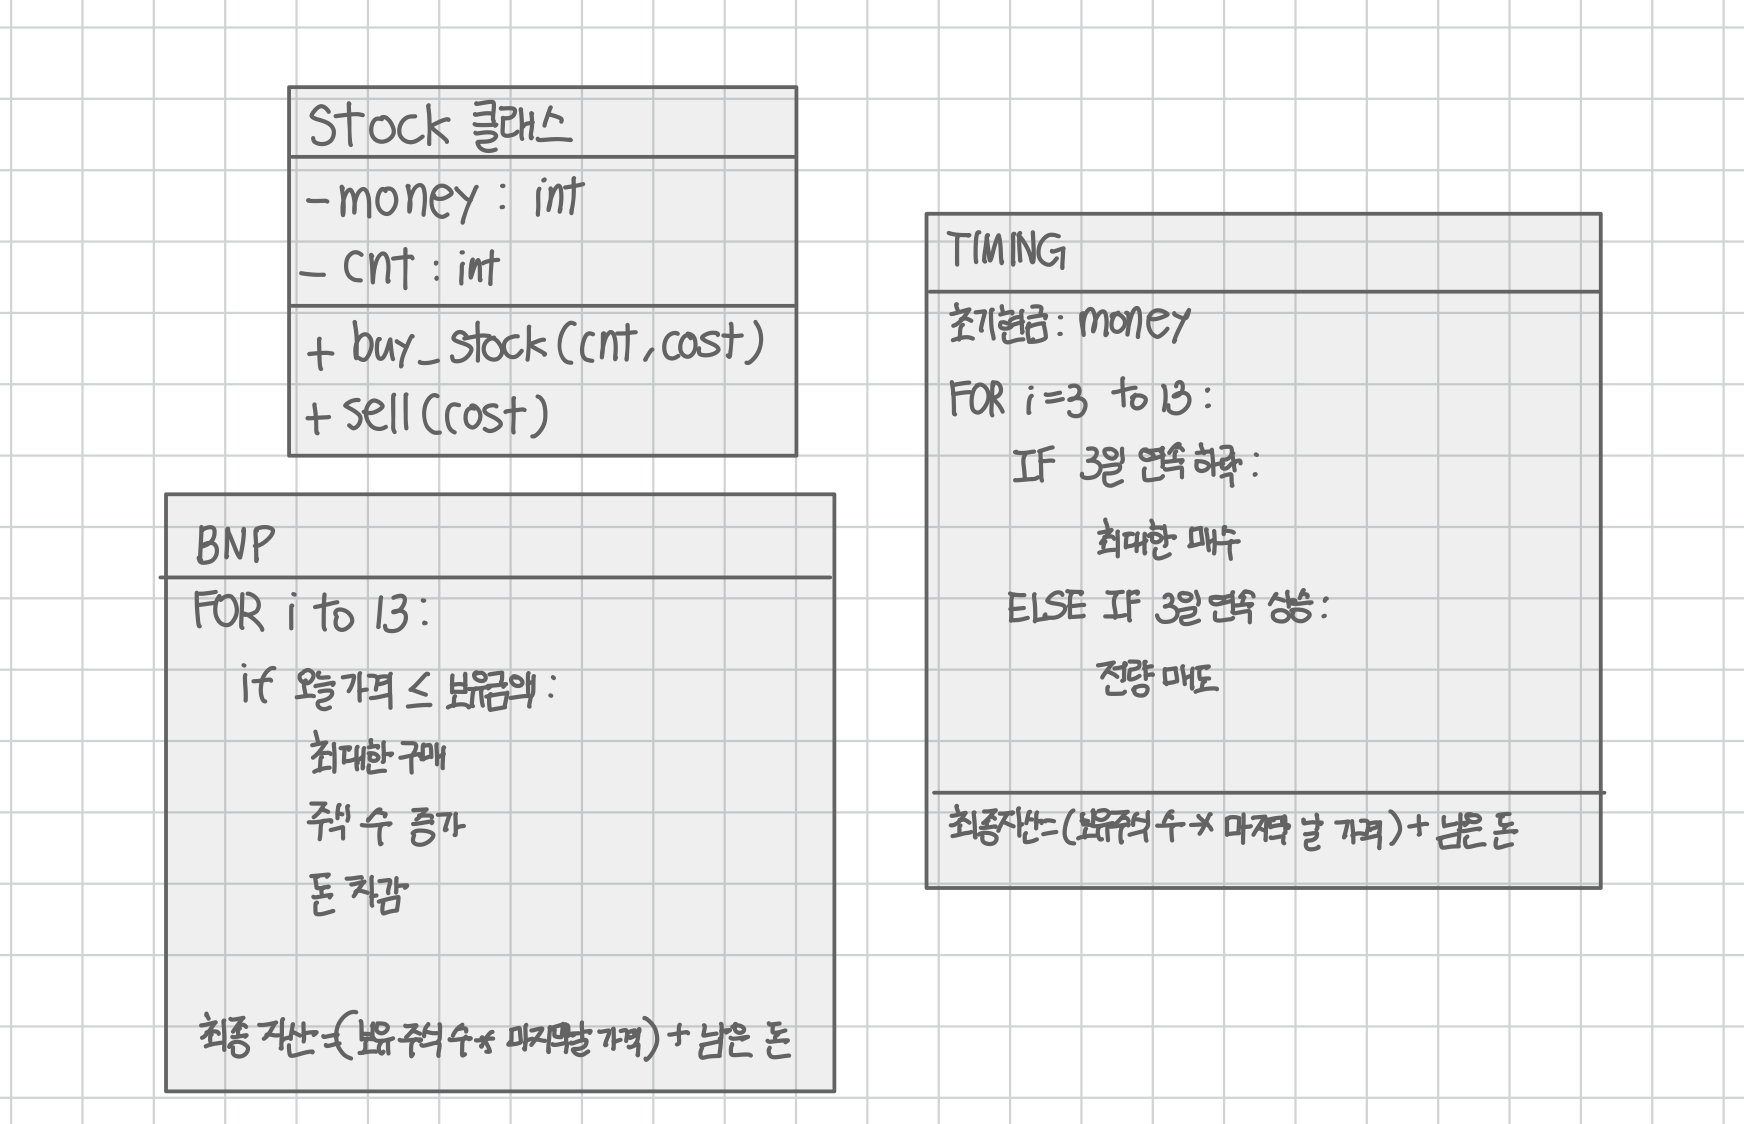
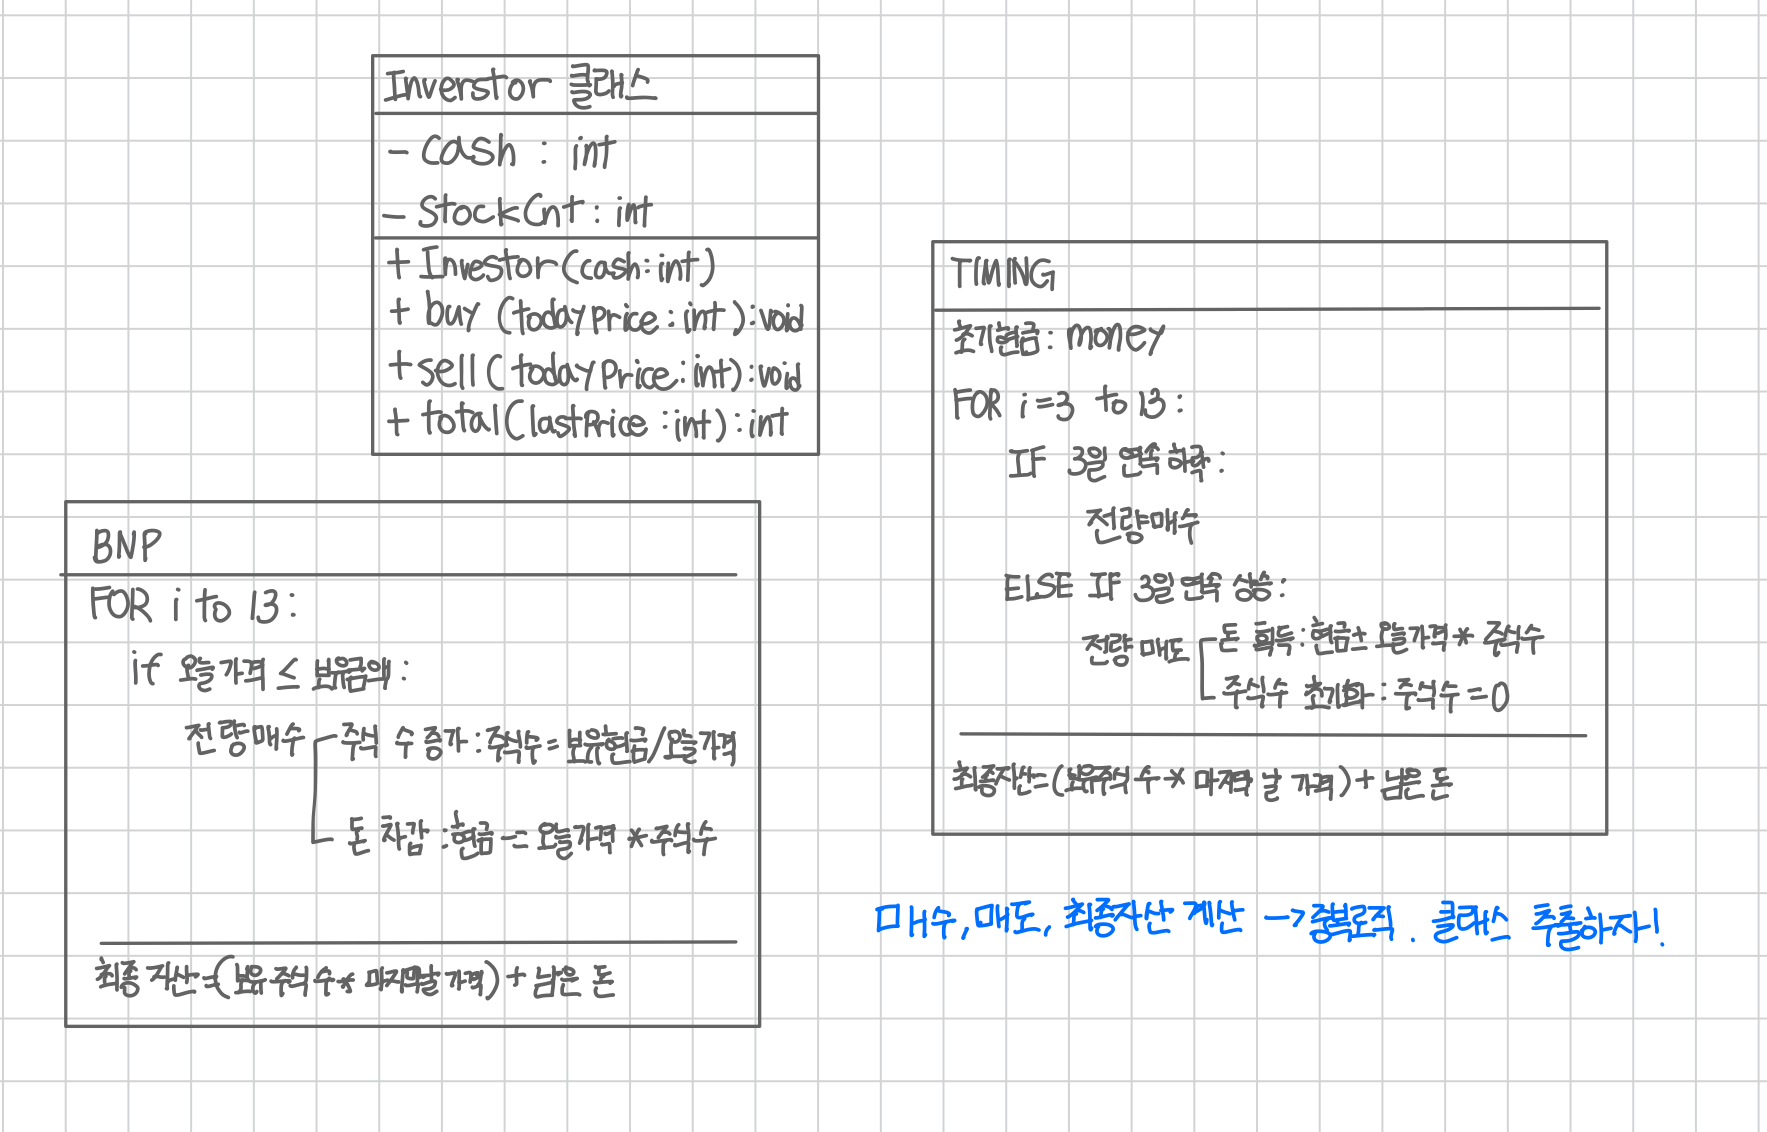
[update] - 백준 1244번 - 스위치 켜고 끄기

diff --git a/_posts/CS/Algorithm/2025-07-16-[JAVA] 백준 20546번 - 🐜기적의 매매법🐜.md b/_posts/CS/Algorithm/2025-07-16-[JAVA] 백준 20546번 - 🐜기적의 매매법🐜.md
@@ -31,38 +31,48 @@ sidebar:
 
 클래스 생성하는 것에 더 익숙해져야 할 것 같다.
 
+## 클래스 사용
+
 ```java
 import java.io.*;
 import java.util.*;
 
 public class Main {
-    static int money;
     static int[] stockPrice;
 
-    static class Stock {
-        int money = 0; // 현재 가진 돈
-        int cnt = 0; // 현재 가진 주식 수
+    static class Investor {
+        int cash;
+        int stockCnt;
 
-        public Stock(int money, int cnt) {
-            this.money = money;
-            this.cnt = cnt;
+        // 생성자
+        public Investor(int cash) {
+            // 처음엔 현금만 있기 때문에 cash만 받기
+            this.cash = cash; // 초기 자본 설정
+            this.stockCnt = 0;// 보유 주식 수 0으로 초기화
         }
 
-        public void buy_stock(int cnt, int todayCost) {
-            money -= todayCost * cnt;
-            this.cnt += cnt;
+        // 매수
+        public void buy(int todayPrice) {
+            stockCnt = cash / todayPrice;
+            cash -= todayPrice * stockCnt;
         }
 
-        public void sell(int todayCost) {
-            money += this.cnt * todayCost;
-            this.cnt = 0;
+        // 매도
+        public void sell(int todayPrice) {
+            cash += todayPrice * stockCnt;
+            stockCnt = 0;
+        }
+
+        // 자산 계산
+        public int total(int lastPrice) {
+            return cash + (stockCnt * lastPrice);
         }
     }
 
     public static void main(String[] args) throws IOException {
         BufferedReader br = new BufferedReader(new InputStreamReader(System.in));
 
-        money = Integer.parseInt(br.readLine());
+        int cash = Integer.parseInt(br.readLine());
         stockPrice = new int[14];
 
         StringTokenizer st = new StringTokenizer(br.readLine());
@@ -70,8 +80,11 @@ public class Main {
             stockPrice[i] = Integer.parseInt(st.nextToken());
         }
 
-        int bnp = BNP();
-        int timing = TIMING();
+        int bnp = BNP(cash);
+        int timing = TIMING(cash);
+
+//        System.out.println(timing);
+//        System.out.println(bnp);
 
         if (bnp < timing)
             System.out.println("TIMING");
@@ -82,34 +95,97 @@ public class Main {
     }
 
     // 준현
-    static int BNP() {
-        Stock s = new Stock(money, 0);
+    static int BNP(int cash) {
+        Investor investor = new Investor(cash);
 
-        for (int i = 0; i < 14; i++) {
-            if (stockPrice[i] <= s.money) {
-                int canBuy = s.money / stockPrice[i];
-                s.buy_stock(canBuy, stockPrice[i]);
-            }
+        for (int i = 0; i < 13; i++) {
+            investor.buy(stockPrice[i]);
         }
-
-        return s.money + (s.cnt * stockPrice[13]);
+        return investor.total(stockPrice[13]);
     }
 
-    // 성민
-    static int TIMING() {
-        Stock s = new Stock(money, 0);
+    static int TIMING(int cash) {
+        Investor investor = new Investor(cash);
+        for (int i = 3; i < 13; i++) {
+            if (stockPrice[i - 1] > stockPrice[i - 2] && stockPrice[i - 2] > stockPrice[i - 3]) {
+                investor.sell(stockPrice[i]);
+            } else if (stockPrice[i - 1] < stockPrice[i - 2] && stockPrice[i - 2] < stockPrice[i - 3]) {
+                investor.buy(stockPrice[i]);
+            }
+        }
+        return investor.total(stockPrice[13]);
+    }
+}
+```
 
-        for (int i = 3; i < 14; i++) {
-            if (stockPrice[i - 1] < stockPrice[i - 2] && stockPrice[i - 2] < stockPrice[i - 3]) {
-                int canBuy = s.money / stockPrice[i];
-                s.buy_stock(canBuy, stockPrice[i]);
+<br>
 
-            } else if (stockPrice[i - 1] > stockPrice[i - 2] && stockPrice[i - 2] > stockPrice[i - 3]) {
-                s.sell(stockPrice[i]);
+## 클래스 미사용
+
+```java
+import java.io.*;
+import java.util.*;
+
+public class Main {
+    static int[] stockPrice;
+
+    public static void main(String[] args) throws IOException {
+        BufferedReader br = new BufferedReader(new InputStreamReader(System.in));
+
+        int cash = Integer.parseInt(br.readLine());
+        stockPrice = new int[14];
+
+        StringTokenizer st = new StringTokenizer(br.readLine());
+        for (int i = 0; i < 14; i++) {
+            stockPrice[i] = Integer.parseInt(st.nextToken());
+        }
+
+        int bnp = BNP(cash);
+        int timing = TIMING(cash);
+
+//        System.out.println(timing);
+//        System.out.println(bnp);
+
+        if (bnp < timing)
+            System.out.println("TIMING");
+        else if (timing < bnp)
+            System.out.println("BNP");
+        else
+            System.out.println("SAMESAME");
+    }
+
+    // 준현
+    static int BNP(int cash) {
+        int stockCnt = 0;
+        for(int i = 0; i<13; i++){
+            if(stockPrice[i] <= cash){
+                // 전량 매수
+                int stockBuy = cash / stockPrice[i];
+                stockCnt += stockBuy;
+                cash -= stockPrice[i] * stockBuy;
             }
         }
 
-        return s.money + (s.cnt * stockPrice[13]);
+        return cash + stockPrice[13] * stockCnt;
+
+    }
+
+    static int TIMING(int cash) {
+        int stockCnt = 0;
+        for(int i=3; i<13; i++){
+            // 3일째 상승 -> 전량 매도
+            if(stockPrice[i-1] > stockPrice[i-2] && stockPrice[i-2] > stockPrice[i-3]){
+                cash += stockCnt * stockPrice[i];
+                stockCnt = 0;
+            }
+            // 3일째 하락 -> 전량 매수
+            else if(stockPrice[i-1] < stockPrice[i-2] && stockPrice[i-2] < stockPrice[i-3]){
+                int stockBuy = cash / stockPrice[i];
+                stockCnt += stockBuy;
+                cash -= stockPrice[i] * stockBuy;
+            }
+        }
+        return cash + stockPrice[13] * stockCnt;
     }
 }
 ```

diff --git a/_posts/CS/Algorithm/2025-07-16-[JAVA] 백준 1244번 - 스위치 켜고 끄기.md b/_posts/CS/Algorithm/2025-07-16-[JAVA] 백준 1244번 - 스위치 켜고 끄기.md
@@ -1,0 +1,124 @@
+---
+title: "[Algorithm/Java] 백준 1244번 - 스위치 켜고 끄기"
+categories: [Algorithm]
+toc_label: Contents
+toc: true
+toc_sticky: true
+author_profile: true
+sidebar:
+  nav: "counts"
+---
+
+<br>
+
+---
+
+[https://www.acmicpc.net/problem/1244](https://www.acmicpc.net/problem/1244)
+
+---
+
+<br>
+
+# 🔍 문제 풀이
+
+## 문제 도식화
+
+![1244 도식화](<../../../assets/images/2025/1244 도식화.png>)
+
+> 출력 형식
+
+이 문제는 정답률이 낮은 편인데, 출력 형식 실수가 원인인 경우가 많은 것 같다.
+
+정답을 출력할 때 스위치 상태를 20개마다 줄 바꿈해야 하니 주의하자!
+
+```java
+for (int i = 1; i <= n; i++) {
+    System.out.print(switches[i] + " ");
+    if (i % 20 == 0) System.out.println(); // 20개마다 줄바꿈
+}
+```
+
+<br>
+
+> xor 연산으로 쉽게 상태 토글이 가능하다.
+
+```java
+static void toggle(int x){
+    switches[x] ^= 1; // xor 연산
+}
+```
+
+<br><br>
+
+# 💻 전체 코드
+
+```java
+import java.io.*;
+import java.util.*;
+
+public class Main {
+    static int[] switches;
+    static int n;
+
+    public static void main(String[] args) throws IOException {
+        BufferedReader br = new BufferedReader(new InputStreamReader(System.in));
+
+        n = Integer.parseInt(br.readLine()); // 스위치 개수
+
+        // 스위치 상태
+        switches = new int[n+1];
+        StringTokenizer st = new StringTokenizer(br.readLine());
+        for(int i=1; i<=n; i++){
+            switches[i] = Integer.parseInt(st.nextToken());
+        }
+
+        int sc = Integer.parseInt(br.readLine()); // 학생 수
+        while(sc --> 0){
+            st = new StringTokenizer(br.readLine());
+            int sex = Integer.parseInt(st.nextToken()); // 성별
+            int x = Integer.parseInt(st.nextToken()); // 받은 수
+
+            solved(sex, x);
+        }
+
+        for(int i=1; i<=n; i++){
+            System.out.print(switches[i] + " ");
+            if(i % 20 == 0) System.out.println(); // 주의
+        }
+
+    }
+    static void solved(int sex, int x){
+        // 남자면 스위치 상태 바꿈
+        if(sex == 1) {
+            for(int i=1; i<=n; i++){
+                if(i%x==0){
+                    toggle(i);
+                }
+            }
+        }
+
+        // 여자면 대칭 상태 확인 후 상태 바꿈
+        if(sex == 2) {
+            toggle(x);
+
+            int left = x-1;
+            int right = x+1;
+
+            // 좌우 대칭 찾기
+            // 배열 범위 안에 있고 왼쪽과 오른쪽 같을 때만
+            while (left >= 1 && right <= n && switches[left] == switches[right]) {
+                toggle(left);
+                toggle(right);
+                left--;
+                right++;
+            }
+        }
+    }
+
+    static void toggle(int x){
+        switches[x] ^= 1; // xor 연산
+    }
+}
+```
+
+<br>
